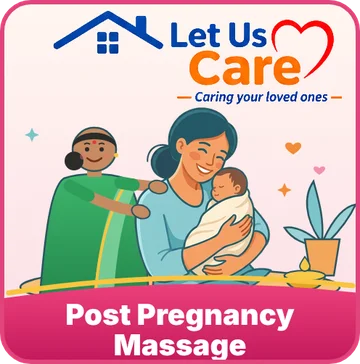
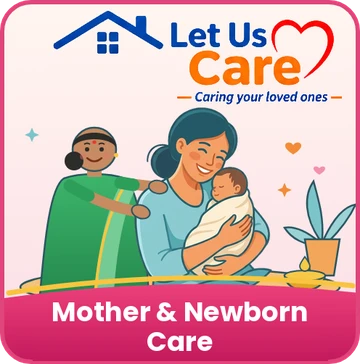
Add files via upload

Changed region(s): [[0.1222, 0.8159, 0.8556, 0.9973]]

diff --git a/family.html b/family.html
@@ -31,7 +31,7 @@ body{margin:0;background:#fff;color:var(--ink);font-family:'Mukta','Mukta Vaani'
 .tick{position:absolute;top:10px;right:10px;width:28px;height:28px;border-radius:50%;background:var(--green);display:none;align-items:center;justify-content:center}
 .sel{border-color:var(--blue);background:#EEF3FC}
 .sel .tick{display:flex}
-.c-t .n{color:#D35400}.c-e .n{color:var(--blue)}.c-p .n{color:#1B7F3B}.c-m .n{color:#C2185B}.c-s .n{color:#6A1B9A}
+.c-t .n{color:#D35400}.c-e .n{color:var(--blue)}.c-p .n{color:#1B7F3B}.c-m .n{color:#C2185B}.c-s .n{color:#6A1B9A}.c-y .n{color:#B7791F}
 .homes{display:grid;grid-template-columns:repeat(3,minmax(0,1fr));gap:10px}
 .home{display:flex;flex-direction:column;align-items:center;justify-content:center;gap:4px;min-height:104px;padding:10px 6px;border-radius:20px;border:2.5px solid var(--line);background:#fff;font-family:inherit;color:var(--ink);font-size:14.5px;font-weight:600;line-height:1.15;text-align:center;cursor:pointer;position:relative}
 .home svg{color:var(--orange)}
@@ -60,9 +60,9 @@ body{margin:0;background:#fff;color:var(--ink);font-family:'Mukta','Mukta Vaani'
 /* compact: all 5 cards on one screen */
 .wrap{gap:10px;padding-top:10px;min-height:100dvh}
 .top h1{font-size:22px}.top p{font-size:13.5px}.back{width:40px;height:40px;border-radius:12px}
-.cats{gap:8px}
+.cats{gap:7px}
 .cat{padding:6px 10px 6px 6px;gap:10px;border-radius:18px;border-width:2px}
-.cat img{width:clamp(56px,10.5dvh,84px);height:clamp(56px,10.5dvh,84px);border-radius:12px}
+.cat img{width:clamp(52px,9dvh,76px);height:clamp(52px,9dvh,76px);border-radius:12px}
 .cat .n{font-size:18px}
 .cat .d{font-size:13px;line-height:1.25;margin-top:1px;display:-webkit-box;-webkit-line-clamp:2;-webkit-box-orient:vertical;overflow:hidden}
 .chev{width:20px;height:20px}
@@ -93,9 +93,9 @@ body{margin:0;background:#fff;color:var(--ink);font-family:'Mukta','Mukta Vaani'
 <span><span class="n">Patient care</span><span class="d">Nursing, post-surgery, bedside care</span></span>
 <svg class="chev" width="24" height="24" viewBox="0 0 24 24" fill="none" stroke="#9AA3B2" stroke-width="2.6" stroke-linecap="round" stroke-linejoin="round" aria-hidden="true"><path d="M9 6l6 6-6 6"/></svg>
 </a>
-<a class="cat c-m" href="mother.html" data-svc="mother" data-label="Post pregnancy massage">
+<a class="cat c-m" href="mother.html" data-svc="mother" data-label="Mother and newborn care">
 <img src="mother.webp" alt="" width="360" height="364">
-<span><span class="n">Post pregnancy massage</span><span class="d">Mother and baby massage at home</span></span>
+<span><span class="n">Mother and newborn care</span><span class="d">Japa maid, mother and baby massage</span></span>
 <svg class="chev" width="24" height="24" viewBox="0 0 24 24" fill="none" stroke="#9AA3B2" stroke-width="2.6" stroke-linecap="round" stroke-linejoin="round" aria-hidden="true"><path d="M9 6l6 6-6 6"/></svg>
 </a>
 <a class="cat c-s" href="special.html" data-svc="special" data-label="Special needs care">
@@ -103,6 +103,11 @@ body{margin:0;background:#fff;color:var(--ink);font-family:'Mukta','Mukta Vaani'
 <span><span class="n">Special needs care</span><span class="d">Wheelchair users, blind or low vision, autism, intellectual disability</span></span>
 <svg class="chev" width="24" height="24" viewBox="0 0 24 24" fill="none" stroke="#9AA3B2" stroke-width="2.6" stroke-linecap="round" stroke-linejoin="round" aria-hidden="true"><path d="M9 6l6 6-6 6"/></svg>
 </a>
+<button type="button" class="cat c-y" data-svc="physio" data-label="Physiotherapy at home">
+<img src="physio.webp" alt="" width="360" height="364">
+<span><span class="n">Physiotherapy at home</span><span class="d">After stroke, fracture, knee or hip surgery</span></span>
+<svg class="chev" width="24" height="24" viewBox="0 0 24 24" fill="none" stroke="#9AA3B2" stroke-width="2.6" stroke-linecap="round" stroke-linejoin="round" aria-hidden="true"><path d="M9 6l6 6-6 6"/></svg>
+</button>
 </div>
 </section>
 

diff --git a/index.html b/index.html
@@ -20,7 +20,7 @@ html,body{margin:0;background:#fff;color:var(--ink);font-family:'Mukta','Mukta V
 .logo{display:block;width:auto;max-width:100%;height:15vh;height:15dvh;max-height:150px;min-height:84px;object-fit:contain;margin:0 auto}
 .intro{text-align:center;margin:0;font-size:13.5px;color:var(--muted);line-height:1.35}
 .intro b{color:var(--blue);font-weight:600}
-.tiles{display:grid;grid-template-columns:repeat(5,minmax(0,1fr));gap:6px;align-items:end;max-width:400px;width:100%;margin:0 auto}
+.tiles{display:grid;grid-template-columns:repeat(6,minmax(0,1fr));gap:5px;align-items:end;max-width:400px;width:100%;margin:0 auto}
 .tile{display:block;width:100%;height:auto;border-radius:12px}
 .btn{display:flex;align-items:center;gap:12px;text-decoration:none;border-radius:18px;padding:8px 14px;min-height:62px;color:#fff;position:relative;overflow:hidden}
 .btn .ic{width:44px;height:44px;border-radius:13px;background:rgba(255,255,255,.18);display:flex;align-items:center;justify-content:center;flex-shrink:0}
@@ -59,7 +59,7 @@ html,body{margin:0;background:#fff;color:var(--ink);font-family:'Mukta','Mukta V
 @keyframes beat{0%,100%{transform:scale(1)}15%{transform:scale(1.15)}30%{transform:scale(1)}45%{transform:scale(1.08)}}
 @media (prefers-reduced-motion:no-preference){
 .up{animation:rise .55s ease-out both}.d1{animation-delay:.08s}.d2{animation-delay:.16s}.d3{animation-delay:.24s}.d4{animation-delay:.32s}.d5{animation-delay:.4s}
-.tile{animation:bob 3.6s ease-in-out infinite}.tile:nth-child(2){animation-delay:.5s}.tile:nth-child(3){animation-delay:1s}.tile:nth-child(4){animation-delay:1.5s}.tile:nth-child(5){animation-delay:2s}
+.tile{animation:bob 3.6s ease-in-out infinite}.tile:nth-child(2){animation-delay:.5s}.tile:nth-child(3){animation-delay:1s}.tile:nth-child(4){animation-delay:1.5s}.tile:nth-child(5){animation-delay:2s}.tile:nth-child(6){animation-delay:2.5s}
 .shine{animation:shine 3.4s ease-in-out infinite}.give .shine{animation-delay:1.7s}
 .beat{animation:beat 1.6s ease-in-out infinite;transform-origin:center}
 }
@@ -76,6 +76,7 @@ html,body{margin:0;background:#fff;color:var(--ink);font-family:'Mukta','Mukta V
 <img class="tile" src="patient.webp" alt="" width="360" height="349">
 <img class="tile" src="mother.webp" alt="" width="360" height="364">
 <img class="tile" src="special.webp" alt="" width="360" height="364">
+<img class="tile" src="physio.webp" alt="" width="360" height="364">
 </div>
 
 <a class="btn need up d3" href="family.html">

diff --git a/i18n.js b/i18n.js
@@ -601,7 +601,11 @@ var ROWS=[
 ["Special needs experience:", "दिव्यांग देखभाल का अनुभव:", "दिव्यांग काळजीचा अनुभव:", "દિવ્યાંગ સંભાળનો અનુભવ:"],
 ["Therapist:", "थेरेपिस्ट:", "थेरपिस्ट:", "થેરાપિસ્ટ:"],
 ["Special needs care sheet", "दिव्यांग देखभाल शीट", "दिव्यांग काळजी शीट", "દિવ્યાંગ સંભાળ શીટ"],
-["12 years", "12 वर्ष", "12 वर्षे", "12 વર્ષ"]
+["12 years", "12 वर्ष", "12 वर्षे", "12 વર્ષ"],
+['Mother and newborn care','माँ और नवजात की देखभाल','आई आणि नवजात बाळाची काळजी','માતા અને નવજાતની સંભાળ'],
+['Japa maid, mother and baby massage','जापा मेड, माँ और बच्चे की मालिश','जापा मेड, आई आणि बाळाची मालिश','જાપા મેડ, માતા અને બાળકની માલિશ'],
+['Physiotherapy at home','घर पर फिज़ियोथेरेपी','घरी फिजिओथेरपी','ઘરે ફિઝિયોથેરાપી'],
+['After stroke, fracture, knee or hip surgery','लकवा, फ्रैक्चर, घुटने या कूल्हे की सर्जरी के बाद','पक्षाघात, फ्रॅक्चर, गुडघा किंवा खुब्याच्या शस्त्रक्रियेनंतर','લકવો, ફ્રેક્ચર, ઘૂંટણ કે થાપાની સર્જરી પછી']
 ];
 var L=['en','hi','mr','gu'];
 var LOCALE={en:'en-IN',hi:'hi-IN',mr:'mr-IN',gu:'gu-IN'};

diff --git a/partner.html b/partner.html
@@ -105,7 +105,7 @@ input:focus,textarea:focus{border-color:var(--orange)}
 <button type="button" class="chip" data-v="toddler">Toddler care</button>
 <button type="button" class="chip" data-v="elder">Elder care</button>
 <button type="button" class="chip" data-v="patient">Patient care</button>
-<button type="button" class="chip" data-v="mother">Post pregnancy massage</button><button type="button" class="chip" data-v="special">Special needs care</button>
+<button type="button" class="chip" data-v="mother">Post pregnancy massage</button><button type="button" class="chip" data-v="special">Special needs care</button><button type="button" class="chip" data-v="physio">Physiotherapy at home</button>
 <button type="button" class="chip" data-v="tiffin">Tiffin service</button>
 <button type="button" class="chip" data-v="cook">Cook at home</button>
 <button type="button" class="chip" data-v="cleaning">Cleaning</button>

diff --git a/sw.js b/sw.js
@@ -1,7 +1,7 @@
 // Let Us Care service worker – network first, cache as fallback (so updates show immediately)
-const CACHE = 'luc-v17';
+const CACHE = 'luc-v18';
 const CORE = ['./', 'index.html', 'family.html', 'toddler.html', 'elder.html', 'patient.html', 'mother.html', 'special.html', 'partner.html', 'manifest.json', 'i18n.js',
-  'logo.webp', 'toddler.webp', 'elder.webp', 'patient.webp', 'mother.webp', 'special.webp', 'adt-logo.webp', 'icon-192.png', 'icon-512.png'];
+  'logo.webp', 'toddler.webp', 'elder.webp', 'patient.webp', 'mother.webp', 'special.webp', 'physio.webp', 'adt-logo.webp', 'icon-192.png', 'icon-512.png'];
 
 self.addEventListener('install', e => {
   e.waitUntil(caches.open(CACHE).then(c => c.addAll(CORE)).then(() => self.skipWaiting()));
